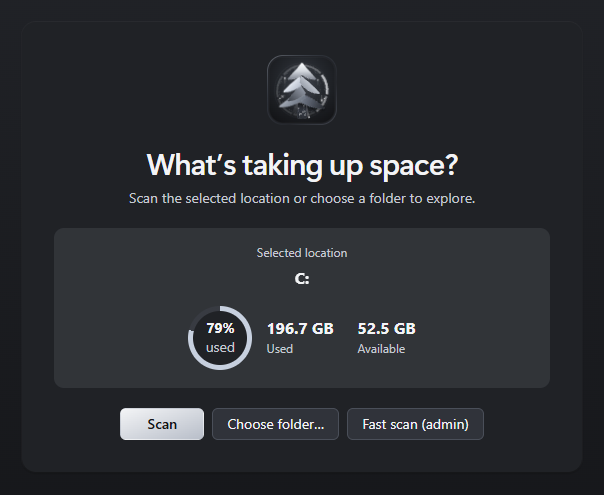
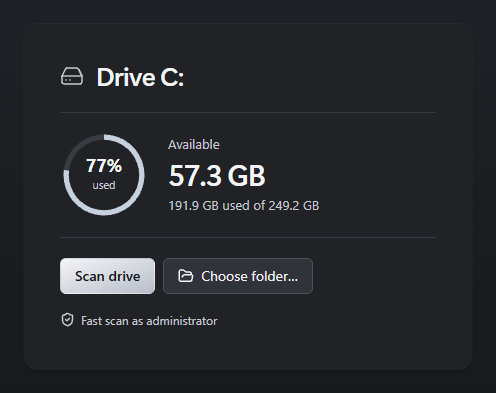
docs: refresh the Windows screenshots and first scan instructions

diff --git a/README.kk.md b/README.kk.md
@@ -19,7 +19,7 @@
 ## Алғашқы сканерлеу
 
 1. [ByteForest жүктеп алу](https://github.com/ErnarIT12/ByteForest/releases).
-2. Бір қалтаны сканерлеу үшін **Choose folder…**, ал таңдалған дискіні сканерлеу үшін **Scan** түймесін басыңыз.
+2. Бір қалтаны сканерлеу үшін **Choose folder…**, ал таңдалған дискіні сканерлеу үшін **Scan drive** түймесін басыңыз.
 3. Картадағы қалтаны екі рет басып ашыңыз. Жоғары деңгейге оралу үшін картаның үстіндегі жолды пайдаланыңыз.
 
 ![Windows жүйесіндегі алғашқы сканерлеу](docs/screenshots/windows-first-scan.png)

diff --git a/README.ru.md b/README.ru.md
@@ -19,7 +19,7 @@
 ## Первое сканирование
 
 1. [Скачать ByteForest](https://github.com/ErnarIT12/ByteForest/releases).
-2. Нажмите **Choose folder…**, чтобы проверить одну папку, или **Scan**, чтобы просканировать выбранный диск.
+2. Нажмите **Choose folder…**, чтобы проверить одну папку, или **Scan drive**, чтобы просканировать выбранный диск.
 3. Дважды щёлкните папку на карте, чтобы открыть её. Вернуться на уровень выше можно по пути над картой.
 
 ![Первый запуск в Windows](docs/screenshots/windows-first-scan.png)

diff --git a/CHANGELOG.md b/CHANGELOG.md
@@ -6,6 +6,8 @@ The format is based on [Keep a Changelog](https://keepachangelog.com/en/1.1.0/),
 
 ## [Unreleased]
 
+- Show available space on the scan start screen, with a compact refresh control in the results toolbar. The capacity ring and disk maps appear with short transitions that follow system motion preferences.
+
 - Explore largest files in a full-width table with type counts, size filters, file icons and a reviewed cleanup selection. Windows can display executable icons from the shell.
 - Switch among Disk map, Largest files, Scan history and Cleanup in the sidebar. Resize the tree beside the map, compare saved scans and open Settings over the current view.
 

diff --git a/README.ja.md b/README.ja.md
@@ -19,7 +19,7 @@
 ## 初めてのスキャン
 
 1. [ByteForest をダウンロード](https://github.com/ErnarIT12/ByteForest/releases).
-2. **Choose folder…** でフォルダーを選ぶか、**Scan** で選択中のドライブをスキャンします。
+2. **Choose folder…** でフォルダーを選ぶか、**Scan drive** で選択中のドライブをスキャンします。
 3. マップ上のフォルダーをダブルクリックして開きます。上の階層に戻るには、マップの上にあるパスをクリックします。
 
 ![Windows の初回スキャン画面](docs/screenshots/windows-first-scan.png)

diff --git a/README.es.md b/README.es.md
@@ -19,7 +19,7 @@
 ## Primer escaneo
 
 1. [Descargar ByteForest](https://github.com/ErnarIT12/ByteForest/releases).
-2. Pulsa **Choose folder…** para analizar una carpeta o **Scan** para analizar la unidad seleccionada.
+2. Pulsa **Choose folder…** para analizar una carpeta o **Scan drive** para analizar la unidad seleccionada.
 3. Haz doble clic en una carpeta del mapa para abrirla. Usa la ruta sobre el mapa para volver.
 
 ![Primer escaneo en Windows](docs/screenshots/windows-first-scan.png)

diff --git a/README.zh-CN.md b/README.zh-CN.md
@@ -19,7 +19,7 @@
 ## 首次扫描
 
 1. [下载 ByteForest](https://github.com/ErnarIT12/ByteForest/releases).
-2. 点击 **Choose folder…** 扫描单个文件夹，或点击 **Scan** 扫描所选驱动器。
+2. 点击 **Choose folder…** 扫描单个文件夹，或点击 **Scan drive** 扫描所选驱动器。
 3. 双击图中的文件夹即可查看其内容。点击图上方的路径可返回上级目录。
 
 ![Windows 上的首次扫描](docs/screenshots/windows-first-scan.png)

diff --git a/README.de.md b/README.de.md
@@ -19,7 +19,7 @@
 ## Der erste Scan
 
 1. [ByteForest herunterladen](https://github.com/ErnarIT12/ByteForest/releases).
-2. Mit **Choose folder…** analysierst du einen Ordner, mit **Scan** das ausgewählte Laufwerk.
+2. Mit **Choose folder…** analysierst du einen Ordner, mit **Scan drive** das ausgewählte Laufwerk.
 3. Öffne einen Ordner in der Karte per Doppelklick. Über die Pfadleiste gelangst du zurück.
 
 ![Erster Scan unter Windows](docs/screenshots/windows-first-scan.png)

diff --git a/README.md b/README.md
@@ -19,7 +19,7 @@
 ## Your first scan
 
 1. [Download ByteForest](https://github.com/ErnarIT12/ByteForest/releases).
-2. Choose **Choose folder…** to scan one folder, or **Scan** to explore the selected drive.
+2. Choose **Choose folder…** to scan one folder, or **Scan drive** to explore the selected drive.
 3. Double-click a folder on the map to explore it. Use the breadcrumbs to return.
 
 ![First scan on Windows](docs/screenshots/windows-first-scan.png)
